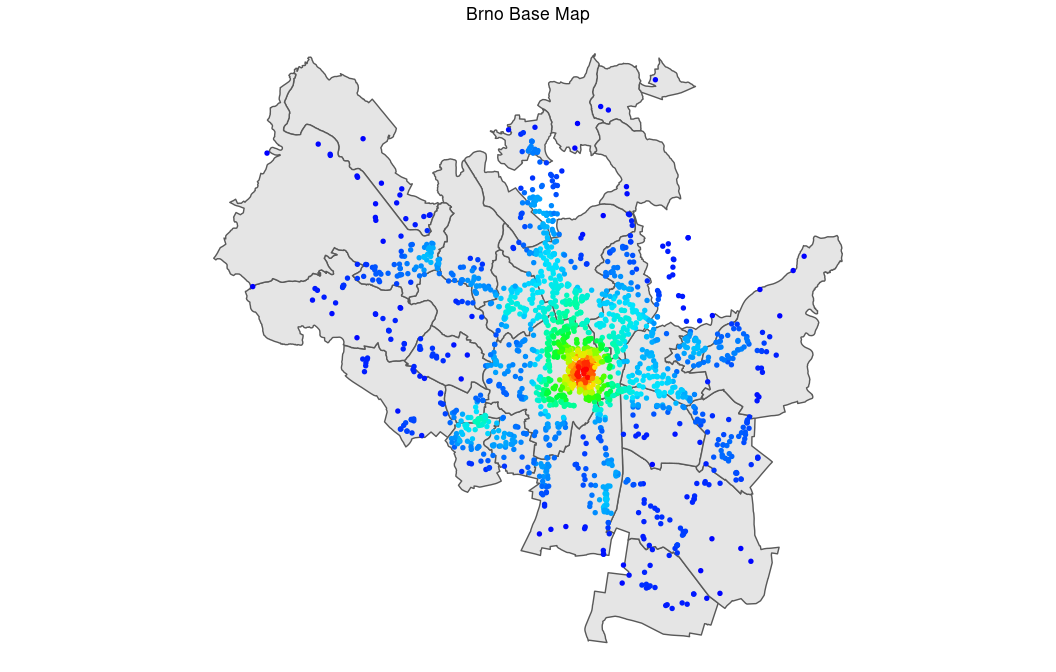
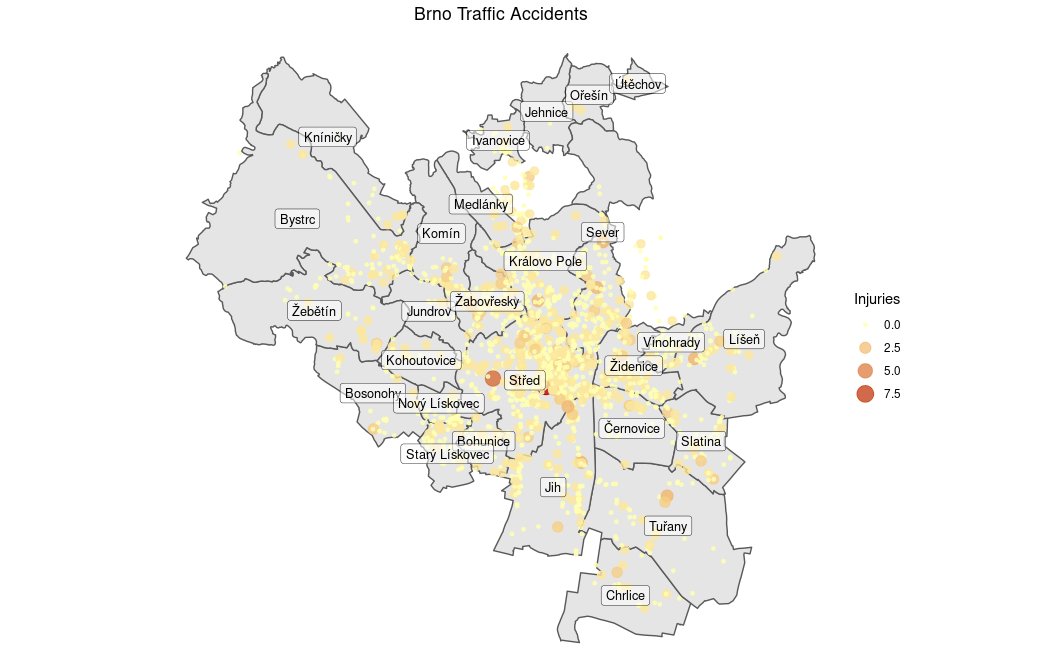
Revision of Traffic Accidents project

diff --git a/content/project/brno-traffic-accidents/index.md b/content/project/brno-traffic-accidents/index.md
@@ -1,7 +1,7 @@
 ---
 title: "Brno Traffic Accidents"
 subtitle: "[DATASET]"
-date: "2019-01-24"
+date: "2019-01-25"
 
 weight: 2
 
@@ -246,14 +246,14 @@ Plot by collision type
       ylab("Number of Accidents") +
       labs(
         title = "Brno Accidents",
-        subtitle = "by Collision Type")
-
-![](project/brno-traffic-accidents/figure/unnamed-chunk-9-1.png)
-
+        subtitle = "by Collision Type"
+      ) +
       theme(
         plot.title = element_text(hjust = 0.5),
-        plot.subtitle = element_text(hjust = 0.5),
+        plot.subtitle = element_text(hjust = 0.5)
       )
+
+![](project/brno-traffic-accidents/figure/unnamed-chunk-9-1.png)
 
 By collision place
 
@@ -302,14 +302,29 @@ Go back to our Brno base map and let's plot geo
 
 First classify by day of the week
 
+    ggplot(data = df.accidents, aes(x = day.of.the.week)) +
+      geom_bar(aes(fill = day.of.the.week)) +
+      ylab("Number of accidents") +
+      xlab("Day of the week") +
+      labs(title = "Brno Traffic Accidents",
+           fill = "Day of the week") +
+      theme(
+        plot.background = element_blank(), 
+        
+        plot.title = element_text(hjust = 0.5),
+        plot.subtitle = element_text(hjust = 0.5)
+      )
+
+![](project/brno-traffic-accidents/figure/unnamed-chunk-14-1.png)
+
     map.base +
       geom_point(data = df.accidents, aes(x = lng, y = lat, color = factor(day.of.the.week)), alpha=0.8) +
       geom_label(data = df.brno, aes(label = NAZ_ZUJ, x = SX, y = SY, size=2, alpha=0.4),
                  label.size = 0.15,
                  show.legend = F) +
-      labs(color = "Day of the week")
+      labs(title = "Brno Traffic Accidents", color = "Day of the week")
 
-![](project/brno-traffic-accidents/figure/unnamed-chunk-14-1.png)
+![](project/brno-traffic-accidents/figure/unnamed-chunk-15-1.png)
 
 Or by number of injuries
 
@@ -320,13 +335,13 @@ Or by number of injuries
                  show.legend = F) +
       scale_color_gradient(low = '#ffffb2', high = '#b30000', guide = 'legend') +
       labs(color = "Injuries", size = "Injuries") +
-      labs(title = "Brno Accidents") +
+      labs(title = "Brno Traffic Accidents") +
       theme(
         plot.title = element_text(hjust = 0.5),
         plot.subtitle = element_text(hjust = 0.5)
       )
 
-![](project/brno-traffic-accidents/figure/unnamed-chunk-16-1.png)
+![](project/brno-traffic-accidents/figure/unnamed-chunk-17-1.png)
 
 Explore map data with heatmap-ish points
 ----------------------------------------
@@ -341,7 +356,7 @@ Explore map data with heatmap-ish points
       ) +
       scale_color_identity()
 
-![](project/brno-traffic-accidents/figure/unnamed-chunk-17-1.png)
+![](project/brno-traffic-accidents/figure/unnamed-chunk-18-1.png)
 
 Overlay intensity and the base map
 
@@ -355,7 +370,7 @@ Overlay intensity and the base map
 
     ggdraw(map.base) + draw_plot(map.heat)
 
-![](project/brno-traffic-accidents/figure/unnamed-chunk-18-1.png)
+![](project/brno-traffic-accidents/figure/unnamed-chunk-19-1.png)
 
 Interactive plots
 -----------------
@@ -400,7 +415,7 @@ We need to set WGS84 CRS (the default)
       addResetMapButton() %>%
       addScaleBar(position = 'bottomleft')
 
-![](project/brno-traffic-accidents/figure/unnamed-chunk-20-1.png)
+![](project/brno-traffic-accidents/figure/unnamed-chunk-21-1.png)
 
 Kepler.gl
 ---------
